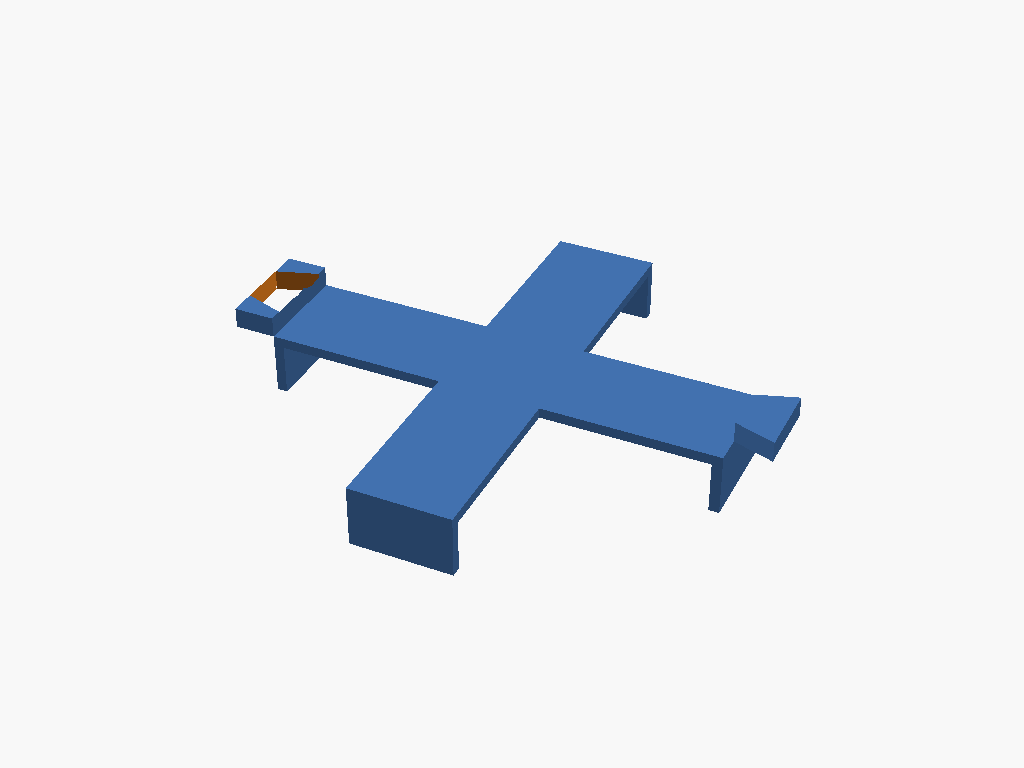
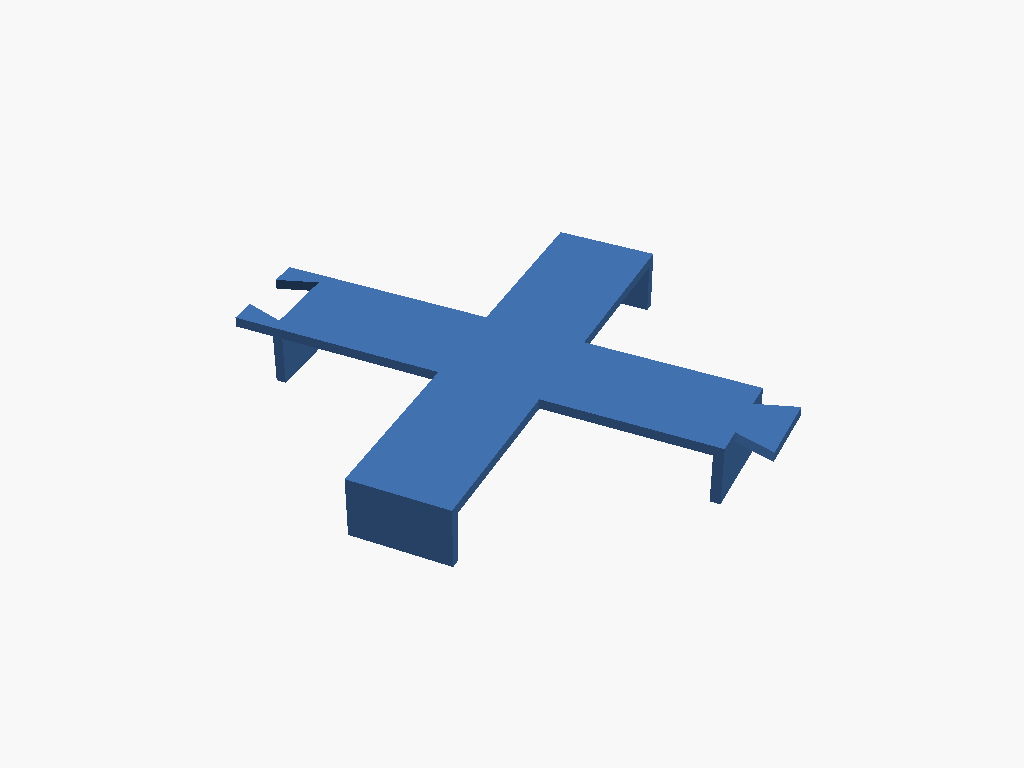
Integrate dovetail into the plate; drop hook variant
The previous claws had connectors protruding above the plate (and fingers
hanging below), so neither had a flat printable face. Integrating the
dovetail tongue and socket into the plate itself leaves the entire top
surface flat — print top-on-bed with fingers pointing up.

Engagement is still a vertical drop: the second print's socket cavity
descends over the first print's tongue as it's lowered onto its mini.
The XY trapezoid wedge locks against pull-apart in X (away from the
neighbor) and Y (front-to-back); lift is intentionally free.

Hook variant removed — keeping just the dovetail.

diff --git a/README.md b/README.md
@@ -63,7 +63,6 @@ git push origin v0.1.0
 | | Model | Parts |
 |---|---|---|
 | <img src="previews/mini_claw_dovetail.png" width="120"> | [`mini_claw_dovetail`](src/mac_mini/mini_claw_dovetail.scad) | — |
-| <img src="previews/mini_claw_hook.png" width="120"> | [`mini_claw_hook`](src/mac_mini/mini_claw_hook.scad) | — |
 
 ### Puffco
 
